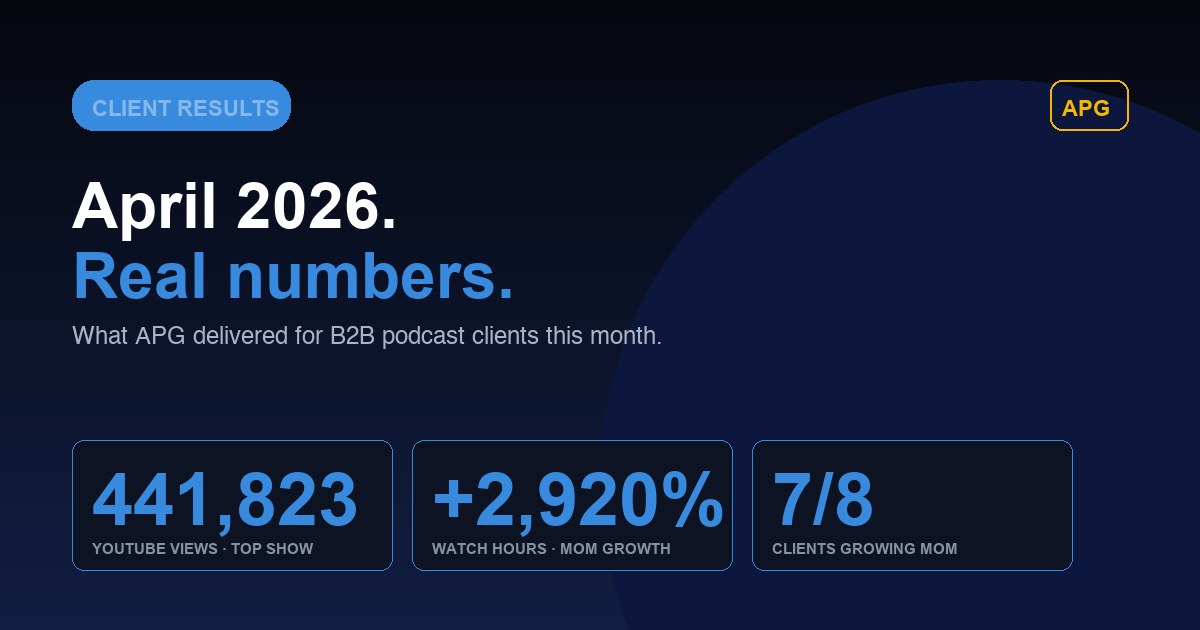
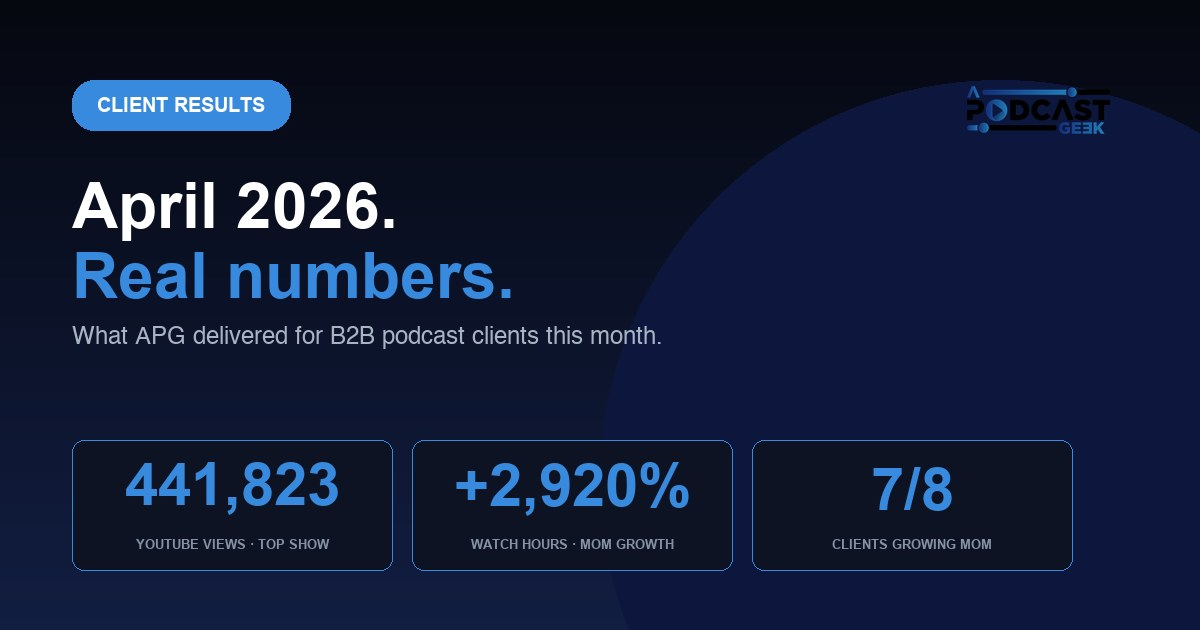
Services: 6-step APG Engine + Two Options layout; new blog hero image
- services.html APG Engine now mirrors homepage (6 steps, was 5)
- Replaced "Two Paths" with "Two Options" two-tier cards inspired by the sales deck
  - Brand Builder Launch: Month 1 setup + Month 2 ongoing
  - Brand Builder Upgrade: Month 1 audit/reset + Month 2 ongoing
  - Month 2 & Beyond is identical across both options
  - Removed monetisation strategy line (ad placements cover it)
  - Updated to 5 short-form clips, 4 thumbnails, guest trailer (vertical+horizontal)
- Blog hero image regenerated: real APG logo top-right, all text centered in shapes, CLIENT RESULTS chip now white

diff --git a/services.html b/services.html
@@ -6,7 +6,7 @@
 <script>window.dataLayer=window.dataLayer||[];function gtag(){dataLayer.push(arguments);}gtag('js',new Date());gtag('config','G-FMQX2BE32H');</script>
 <meta name="viewport" content="width=device-width, initial-scale=1.0">
 <title>B2B Podcast Production Services | The APG Engine&trade; &amp; APG Brand Builder | APodcastGeek</title>
-<meta name="description" content="The APG Engine™ — a five-stage done-for-you B2B podcast production system. 12 assets per episode covering strategy, recording, post-production, distribution and analytics.">
+<meta name="description" content="The APG Engine™ — a six-step done-for-you B2B podcast production system covering strategy, guest recruitment, pre-production, full production, monetisation and analytics.">
 <link rel="canonical" href="https://apodcastgeek.com/services.html">
 <link rel="icon" type="image/png" href="favicon.png">
 <link rel="apple-touch-icon" href="favicon.png">
@@ -143,84 +143,102 @@
   <a target="_blank" rel="noopener" href="https://calendly.com/apodcastgeek_dave/apg-brand-builder-discovery-call" class="btn-primary">Book a Strategy Call</a>
 </section>
 
-<!-- Two Paths -->
-<section class="section section-dark">
-  <div class="inner centered">
-    <div class="section-label">Two paths</div>
+<!-- Two Options -->
+<section class="opt-section">
+  <div class="inner centered" style="max-width:1240px;margin:0 auto;text-align:center">
+    <div class="section-label">Two options</div>
     <div class="divider"></div>
-    <h2 class="section-title">Launching a New Podcast or Upgrading an Existing One?</h2>
-    <p class="section-sub">Whether you're starting from scratch or already running a show that needs to perform better, we have a system for both.</p>
-
-    <div class="paths-grid">
-      <!-- Launch -->
-      <div class="path-card">
-        <span class="path-badge">Starting Fresh</span>
-        <h3>The Launch Package</h3>
-        <p class="path-desc">A complete system that launches your podcast with strategy, branding, and everything you need to hit the ground running.</p>
-        <ul class="deliverables">
-          <li><svg width="16" height="16" viewBox="0 0 24 24" fill="none" stroke="#378ADD" stroke-width="2"><path d="M20 6L9 17l-5-5"/></svg>Consultation (concept and strategy)</li>
-          <li><svg width="16" height="16" viewBox="0 0 24 24" fill="none" stroke="#378ADD" stroke-width="2"><path d="M20 6L9 17l-5-5"/></svg>Branding (name, tagline, and artwork)</li>
-          <li><svg width="16" height="16" viewBox="0 0 24 24" fill="none" stroke="#378ADD" stroke-width="2"><path d="M20 6L9 17l-5-5"/></svg>Podcast trailer</li>
-          <li><svg width="16" height="16" viewBox="0 0 24 24" fill="none" stroke="#378ADD" stroke-width="2"><path d="M20 6L9 17l-5-5"/></svg>Custom intro and outro</li>
-          <li><svg width="16" height="16" viewBox="0 0 24 24" fill="none" stroke="#378ADD" stroke-width="2"><path d="M20 6L9 17l-5-5"/></svg>3 ad placements</li>
-          <li><svg width="16" height="16" viewBox="0 0 24 24" fill="none" stroke="#378ADD" stroke-width="2"><path d="M20 6L9 17l-5-5"/></svg>Full tech setup (microphone, camera, lighting, software)</li>
-          <li><svg width="16" height="16" viewBox="0 0 24 24" fill="none" stroke="#378ADD" stroke-width="2"><path d="M20 6L9 17l-5-5"/></svg>YouTube and host platform setup</li>
-          <li><svg width="16" height="16" viewBox="0 0 24 24" fill="none" stroke="#378ADD" stroke-width="2"><path d="M20 6L9 17l-5-5"/></svg>Structured 60-day social media launch plan</li>
-        </ul>
-        <div class="path-cta"><a target="_blank" rel="noopener" href="https://calendly.com/apodcastgeek_dave/apg-brand-builder-discovery-call">Book a Strategy Call</a></div>
-      </div>
-
-      <!-- Ongoing -->
-      <div class="path-card featured">
-        <span class="path-badge">Monthly Production</span>
-        <h3>The APG Brand Builder</h3>
-        <p class="path-desc">Done-for-you podcast production. Every episode delivers 12 assets, guest recruitment, and performance analytics.</p>
-        <ul class="deliverables">
-          <li><svg width="16" height="16" viewBox="0 0 24 24" fill="none" stroke="#378ADD" stroke-width="2"><path d="M20 6L9 17l-5-5"/></svg>Strategic guest recruitment and coordination</li>
-          <li><svg width="16" height="16" viewBox="0 0 24 24" fill="none" stroke="#378ADD" stroke-width="2"><path d="M20 6L9 17l-5-5"/></svg>Pre-production briefing (both sides)</li>
-          <li><svg width="16" height="16" viewBox="0 0 24 24" fill="none" stroke="#378ADD" stroke-width="2"><path d="M20 6L9 17l-5-5"/></svg>Full video and audio podcast production</li>
-          <li><svg width="16" height="16" viewBox="0 0 24 24" fill="none" stroke="#378ADD" stroke-width="2"><path d="M20 6L9 17l-5-5"/></svg>Guest intro trailer</li>
-          <li><svg width="16" height="16" viewBox="0 0 24 24" fill="none" stroke="#378ADD" stroke-width="2"><path d="M20 6L9 17l-5-5"/></svg>5 short-form clips</li>
-          <li><svg width="16" height="16" viewBox="0 0 24 24" fill="none" stroke="#378ADD" stroke-width="2"><path d="M20 6L9 17l-5-5"/></svg>3 custom thumbnails</li>
-          <li><svg width="16" height="16" viewBox="0 0 24 24" fill="none" stroke="#378ADD" stroke-width="2"><path d="M20 6L9 17l-5-5"/></svg>SEO show notes and published article</li>
-          <li><svg width="16" height="16" viewBox="0 0 24 24" fill="none" stroke="#378ADD" stroke-width="2"><path d="M20 6L9 17l-5-5"/></svg>Distribution across all platforms</li>
-          <li><svg width="16" height="16" viewBox="0 0 24 24" fill="none" stroke="#378ADD" stroke-width="2"><path d="M20 6L9 17l-5-5"/></svg>Monetisation strategy and ad placements</li>
-          <li><svg width="16" height="16" viewBox="0 0 24 24" fill="none" stroke="#378ADD" stroke-width="2"><path d="M20 6L9 17l-5-5"/></svg>Performance analytics (video, audio, ads)</li>
-        </ul>
-        <div class="path-cta"><a target="_blank" rel="noopener" href="https://calendly.com/apodcastgeek_dave/apg-brand-builder-discovery-call">Book a Strategy Call</a></div>
-      </div>
-    </div>
+    <h2 class="section-title">Same engine. Two starting points.</h2>
+    <p class="section-sub">Whether you're launching a new podcast or upgrading one that's already running, the production engine is identical from Month 2. Month 1 is where the two paths diverge.</p>
   </div>
-</section>
 
-
-<style>
-.apg-engine-grid{max-width:1100px;margin:3rem auto 1.5rem;display:grid;grid-template-columns:repeat(5,1fr);gap:1.25rem}
-.engine-stage{position:relative;background:#0a0e1a;border:0.5px solid rgba(55,138,221,0.25);border-radius:14px;padding:1.5rem 1.25rem;text-align:left;transition:transform .25s ease, border-color .25s ease}
-.engine-stage:hover{transform:translateY(-4px);border-color:rgba(55,138,221,0.5)}
-.engine-stage-num{font-family:'JetBrains Mono',monospace;font-size:11px;letter-spacing:.1em;font-weight:700;color:#378ADD;background:rgba(55,138,221,0.12);display:inline-block;padding:3px 8px;border-radius:999px;margin-bottom:.85rem}
-.engine-stage-arrow{position:absolute;top:1.35rem;right:1.1rem;font-size:1.1rem;color:#378ADD;opacity:.4;font-weight:700}
-.engine-stage h3{font-size:.98rem;font-weight:700;color:#fff;margin-bottom:.4rem;line-height:1.3}
-.engine-stage p{font-size:.82rem;color:#8899aa;line-height:1.55;margin:0}
-.apg-engine-tag{font-size:.82rem;color:#667788;letter-spacing:.03em;margin-top:1.5rem;text-align:center}
-@media(max-width:1024px){.apg-engine-grid{grid-template-columns:repeat(2,1fr)}}
-@media(max-width:640px){.apg-engine-grid{grid-template-columns:1fr}.engine-stage-arrow{display:none}}
-</style>
-
-<section class="section section-dark" aria-labelledby="apg-engine-services-heading">
-  <div class="inner centered">
-    <div class="section-label" id="apg-engine">The framework</div>
-    <div class="divider"></div>
-    <h2 class="section-title" id="apg-engine-services-heading">The APG Engine&trade;</h2>
-    <p class="section-sub">Every Brand Builder client runs on the same five-stage system. Built once. Refined over 600+ episodes. Deployed across every account.</p>
-    <div class="apg-engine-grid">
-      <div class="engine-stage"><div class="engine-stage-num">01</div><div class="engine-stage-arrow">&rarr;</div><h3>Audit &amp; Strategy</h3><p>90-minute consultation. ICP, positioning, guest map, commercial outcome.</p></div>
-      <div class="engine-stage"><div class="engine-stage-num">02</div><div class="engine-stage-arrow">&rarr;</div><h3>Recording</h3><p>You show up. Briefs handle both host and guest preparation.</p></div>
-      <div class="engine-stage"><div class="engine-stage-num">03</div><div class="engine-stage-arrow">&rarr;</div><h3>Post-Production</h3><p>Editing, mastering, color, clips, thumbnails, trailer, show notes.</p></div>
-      <div class="engine-stage"><div class="engine-stage-num">04</div><div class="engine-stage-arrow">&rarr;</div><h3>Publishing &amp; Distribution</h3><p>YouTube, audio hosts, social, SEO article. All on publication day.</p></div>
-      <div class="engine-stage"><div class="engine-stage-num">05</div><div class="engine-stage-arrow">&#8635;</div><h3>Analytics &amp; Optimization</h3><p>Monthly reports across video, audio and ads. Quarterly course-corrects.</p></div>
+  <!-- Option A: Brand Builder Launch -->
+  <div class="opt-option-card">
+    <div class="opt-option-header">
+      <div class="opt-option-header-left">
+        <h3>Brand Builder Launch</h3>
+        <p>For founders launching a brand-new podcast. Month 1 covers setup, branding, tech and a 60-day launch plan so the show goes from zero to a full production engine.</p>
+      </div>
+      <span class="opt-option-badge">Starting fresh</span>
     </div>
-    <p class="apg-engine-tag">A trademarked framework. Built once. Refined over 600+ episodes.</p>
+    <div class="opt-tiers">
+      <div class="opt-tier month1">
+        <div class="opt-tier-label">01 · Onboarding</div>
+        <div class="opt-tier-title">Month 1 — Launch &amp; Setup</div>
+        <div class="opt-tier-sub">Everything we ship to turn an idea into a live, branded show.</div>
+        <ul class="opt-deliverables">
+          <li><svg width="14" height="14" viewBox="0 0 24 24" fill="none" stroke="#378ADD" stroke-width="2"><path d="M20 6L9 17l-5-5"/></svg><span>Consultation<span class="li-note"> (concept, strategy, action plan)</span></span></li>
+          <li><svg width="14" height="14" viewBox="0 0 24 24" fill="none" stroke="#378ADD" stroke-width="2"><path d="M20 6L9 17l-5-5"/></svg><span>Intro &amp; Outro<span class="li-note"> (scripting &amp; production)</span></span></li>
+          <li><svg width="14" height="14" viewBox="0 0 24 24" fill="none" stroke="#378ADD" stroke-width="2"><path d="M20 6L9 17l-5-5"/></svg><span>Ads × 3<span class="li-note"> (scripting &amp; production)</span></span></li>
+          <li><svg width="14" height="14" viewBox="0 0 24 24" fill="none" stroke="#378ADD" stroke-width="2"><path d="M20 6L9 17l-5-5"/></svg><span>YouTube and audio host optimization<span class="li-note"></span></span></li>
+          <li><svg width="14" height="14" viewBox="0 0 24 24" fill="none" stroke="#378ADD" stroke-width="2"><path d="M20 6L9 17l-5-5"/></svg><span>Podcast trailer<span class="li-note"></span></span></li>
+          <li><svg width="14" height="14" viewBox="0 0 24 24" fill="none" stroke="#378ADD" stroke-width="2"><path d="M20 6L9 17l-5-5"/></svg><span>Custom intro and outro<span class="li-note"></span></span></li>
+          <li><svg width="14" height="14" viewBox="0 0 24 24" fill="none" stroke="#378ADD" stroke-width="2"><path d="M20 6L9 17l-5-5"/></svg><span>Full tech setup, guidance &amp; branding<span class="li-note"> (mic, camera, lighting, software)</span></span></li>
+          <li><svg width="14" height="14" viewBox="0 0 24 24" fill="none" stroke="#378ADD" stroke-width="2"><path d="M20 6L9 17l-5-5"/></svg><span>YouTube and host platform setup<span class="li-note"></span></span></li>
+          <li><svg width="14" height="14" viewBox="0 0 24 24" fill="none" stroke="#378ADD" stroke-width="2"><path d="M20 6L9 17l-5-5"/></svg><span>Structured 60-day social media launch plan<span class="li-note"></span></span></li>
+        </ul>
+        <div class="opt-includes-banner">Includes the full Brand Builder ecosystem</div>
+      </div>
+        <div class="opt-tier month2">
+          <div class="opt-tier-label">02 · Ongoing</div>
+          <div class="opt-tier-title">Month 2 &amp; Beyond</div>
+          <div class="opt-tier-sub">The recurring monthly production engine. Identical for both options.</div>
+          <ul class="opt-deliverables">
+          <li><svg width="14" height="14" viewBox="0 0 24 24" fill="none" stroke="#378ADD" stroke-width="2"><path d="M20 6L9 17l-5-5"/></svg><span>Strategic guest recruitment, coordination &amp; briefing<span class="li-note"> (optional)</span></span></li>
+          <li><svg width="14" height="14" viewBox="0 0 24 24" fill="none" stroke="#378ADD" stroke-width="2"><path d="M20 6L9 17l-5-5"/></svg><span>Full video and audio podcast production<span class="li-note"></span></span></li>
+          <li><svg width="14" height="14" viewBox="0 0 24 24" fill="none" stroke="#378ADD" stroke-width="2"><path d="M20 6L9 17l-5-5"/></svg><span>Guest intro trailer<span class="li-note"> (vertical &amp; horizontal)</span></span></li>
+          <li><svg width="14" height="14" viewBox="0 0 24 24" fill="none" stroke="#378ADD" stroke-width="2"><path d="M20 6L9 17l-5-5"/></svg><span>5 short-form clips<span class="li-note"> (vertical)</span></span></li>
+          <li><svg width="14" height="14" viewBox="0 0 24 24" fill="none" stroke="#378ADD" stroke-width="2"><path d="M20 6L9 17l-5-5"/></svg><span>4 custom thumbnails<span class="li-note"></span></span></li>
+          <li><svg width="14" height="14" viewBox="0 0 24 24" fill="none" stroke="#378ADD" stroke-width="2"><path d="M20 6L9 17l-5-5"/></svg><span>SEO show notes &amp; published article<span class="li-note"></span></span></li>
+          <li><svg width="14" height="14" viewBox="0 0 24 24" fill="none" stroke="#378ADD" stroke-width="2"><path d="M20 6L9 17l-5-5"/></svg><span>Distribution across all platforms<span class="li-note"></span></span></li>
+          <li><svg width="14" height="14" viewBox="0 0 24 24" fill="none" stroke="#378ADD" stroke-width="2"><path d="M20 6L9 17l-5-5"/></svg><span>Performance analytics<span class="li-note"> (video, audio, ads)</span></span></li>
+          <li><svg width="14" height="14" viewBox="0 0 24 24" fill="none" stroke="#378ADD" stroke-width="2"><path d="M20 6L9 17l-5-5"/></svg><span>Quarterly consultations with our founder<span class="li-note"></span></span></li>
+          </ul>
+        </div>
+    </div>
+    <div class="opt-cta"><a target="_blank" rel="noopener" href="https://calendly.com/apodcastgeek_dave/apg-brand-builder-discovery-call">Book a Strategy Call</a></div>
+  </div>
+
+  <!-- Option B: Brand Builder Upgrade -->
+  <div class="opt-option-card">
+    <div class="opt-option-header">
+      <div class="opt-option-header-left">
+        <h3>Brand Builder Upgrade</h3>
+        <p>For founders who already have a podcast and want APG to take production, packaging and pipeline to the next level. Month 1 is an audit-first reset so we know exactly where the show needs to move.</p>
+      </div>
+      <span class="opt-option-badge">Existing podcast</span>
+    </div>
+    <div class="opt-tiers">
+      <div class="opt-tier month1">
+        <div class="opt-tier-label">01 · Onboarding</div>
+        <div class="opt-tier-title">Month 1 — Audit &amp; Reset</div>
+        <div class="opt-tier-sub">Strategic reset, branding alignment, and the first production cycle.</div>
+        <ul class="opt-deliverables">
+          <li><svg width="14" height="14" viewBox="0 0 24 24" fill="none" stroke="#378ADD" stroke-width="2"><path d="M20 6L9 17l-5-5"/></svg><span>Consultation<span class="li-note"> (audit, strategy, action plan, execute)</span></span></li>
+          <li><svg width="14" height="14" viewBox="0 0 24 24" fill="none" stroke="#378ADD" stroke-width="2"><path d="M20 6L9 17l-5-5"/></svg><span>Intro &amp; Outro<span class="li-note"> (scripting &amp; production)</span></span></li>
+          <li><svg width="14" height="14" viewBox="0 0 24 24" fill="none" stroke="#378ADD" stroke-width="2"><path d="M20 6L9 17l-5-5"/></svg><span>Ads × 3<span class="li-note"> (scripting &amp; production)</span></span></li>
+          <li><svg width="14" height="14" viewBox="0 0 24 24" fill="none" stroke="#378ADD" stroke-width="2"><path d="M20 6L9 17l-5-5"/></svg><span>YouTube and audio host optimization<span class="li-note"></span></span></li>
+        </ul>
+        <div class="opt-includes-banner">Includes the full Brand Builder ecosystem</div>
+      </div>
+        <div class="opt-tier month2">
+          <div class="opt-tier-label">02 · Ongoing</div>
+          <div class="opt-tier-title">Month 2 &amp; Beyond</div>
+          <div class="opt-tier-sub">The recurring monthly production engine. Identical for both options.</div>
+          <ul class="opt-deliverables">
+          <li><svg width="14" height="14" viewBox="0 0 24 24" fill="none" stroke="#378ADD" stroke-width="2"><path d="M20 6L9 17l-5-5"/></svg><span>Strategic guest recruitment, coordination &amp; briefing<span class="li-note"> (optional)</span></span></li>
+          <li><svg width="14" height="14" viewBox="0 0 24 24" fill="none" stroke="#378ADD" stroke-width="2"><path d="M20 6L9 17l-5-5"/></svg><span>Full video and audio podcast production<span class="li-note"></span></span></li>
+          <li><svg width="14" height="14" viewBox="0 0 24 24" fill="none" stroke="#378ADD" stroke-width="2"><path d="M20 6L9 17l-5-5"/></svg><span>Guest intro trailer<span class="li-note"> (vertical &amp; horizontal)</span></span></li>
+          <li><svg width="14" height="14" viewBox="0 0 24 24" fill="none" stroke="#378ADD" stroke-width="2"><path d="M20 6L9 17l-5-5"/></svg><span>5 short-form clips<span class="li-note"> (vertical)</span></span></li>
+          <li><svg width="14" height="14" viewBox="0 0 24 24" fill="none" stroke="#378ADD" stroke-width="2"><path d="M20 6L9 17l-5-5"/></svg><span>4 custom thumbnails<span class="li-note"></span></span></li>
+          <li><svg width="14" height="14" viewBox="0 0 24 24" fill="none" stroke="#378ADD" stroke-width="2"><path d="M20 6L9 17l-5-5"/></svg><span>SEO show notes &amp; published article<span class="li-note"></span></span></li>
+          <li><svg width="14" height="14" viewBox="0 0 24 24" fill="none" stroke="#378ADD" stroke-width="2"><path d="M20 6L9 17l-5-5"/></svg><span>Distribution across all platforms<span class="li-note"></span></span></li>
+          <li><svg width="14" height="14" viewBox="0 0 24 24" fill="none" stroke="#378ADD" stroke-width="2"><path d="M20 6L9 17l-5-5"/></svg><span>Performance analytics<span class="li-note"> (video, audio, ads)</span></span></li>
+          <li><svg width="14" height="14" viewBox="0 0 24 24" fill="none" stroke="#378ADD" stroke-width="2"><path d="M20 6L9 17l-5-5"/></svg><span>Quarterly consultations with our founder<span class="li-note"></span></span></li>
+          </ul>
+        </div>
+    </div>
+    <div class="opt-cta"><a target="_blank" rel="noopener" href="https://calendly.com/apodcastgeek_dave/apg-brand-builder-discovery-call">Book a Strategy Call</a></div>
   </div>
 </section>
 